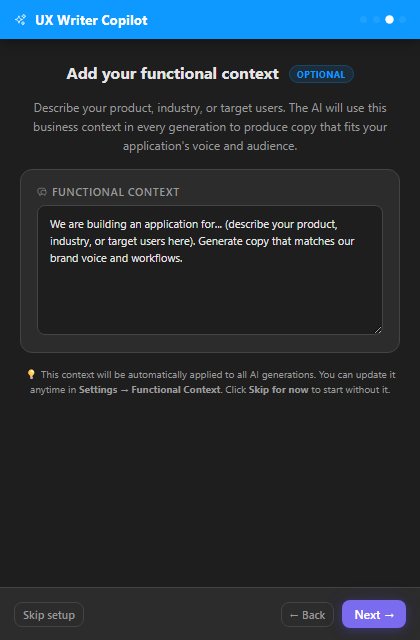
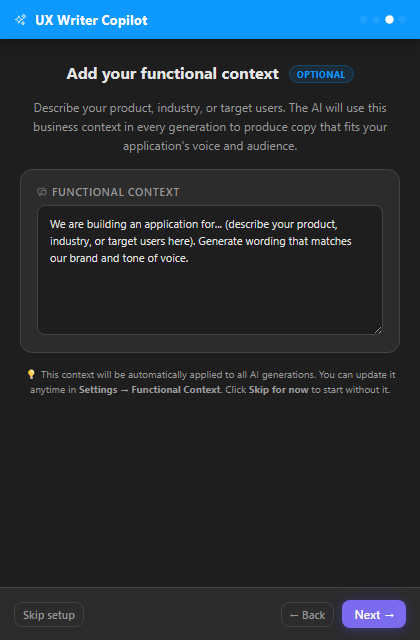
Add Mistral provider (Ministral 8B, Small 4, Large 3); rewrite onboarding copy
- Add MistralProvider (OpenAI-compatible, api.mistral.ai) with 3 models
- Add 'mistral' to LLMProvider union, MistralModel type, AIModel union, ModelConfig
- Register MistralProvider in ai-service.ts; fix switch default to mistral
- Add Mistral to PROVIDER_MODELS, PROVIDER_KEY_INFO, validateApiKey, getModelConfig,
  collectPersistedSettings, applyPersistedSettings, setupOnboarding VALID_PROVIDERS
- Add Mistral option to both provider dropdowns in ui.html (settings + onboarding)
- Fix legacy 'GH Token' label / 'ghp_...' placeholder in onboarding step 2
- Onboarding step 1: update feature bullet to include Mistral
- Onboarding step 3: align textarea default text with OB_AGENT_DEFAULT_PROMPT
- Onboarding step 4: replace outdated Context-button tip with Auto-selection +
  New conversation tips
- Add api.mistral.ai to manifest.json networkAccess.allowedDomains
- Update gen-screenshots.py to match all copy changes; regenerate 7x420x640 screenshots

Changed region(s): [[0.1238, 0.375, 0.4333, 0.4062], [0.5881, 0.375, 0.8357, 0.4062]]

diff --git a/src/ui.ts b/src/ui.ts
@@ -643,6 +643,11 @@ const PROVIDER_MODELS: Record<LLMProvider, Array<{ value: string; label: string 
     { value: "claude-sonnet-4-6", label: "Claude Sonnet 4.6" },
     { value: "claude-opus-4-6", label: "Claude Opus 4.6" },
   ],
+  mistral: [
+    { value: "ministral-8b-2512",  label: "Ministral 8B" },
+    { value: "mistral-small-2603", label: "Mistral Small 4" },
+    { value: "mistral-large-2512", label: "Mistral Large 3" },
+  ],
 };
 
 /** Key labels and placeholders per provider for the API key input field. */
@@ -670,6 +675,14 @@ const PROVIDER_KEY_INFO: Record<LLMProvider, { label: string; placeholder: strin
     hint: "Get your API key at console.anthropic.com → API Keys.",
     icon: '<svg class="icon icon--fill" aria-hidden="true"><use href="#icon-anthropic"/></svg>',
     instructionsHtml: `<div class="ob-inst-header"><svg class="icon icon--fill" aria-hidden="true"><use href="#icon-anthropic"/></svg> Anthropic — How to get your API key</div><ol><li>Go to <a href="https://console.anthropic.com/settings/keys" target="_blank" rel="noopener noreferrer">console.anthropic.com → API Keys</a>.</li><li>Click <strong>Create key</strong>.</li><li>Copy the key (<code>sk-ant-…</code>) and paste it in the field above.</li></ol><p class="ob-inst-note">Errors 401/429 are surfaced in the chat with a descriptive message.</p>`,
+  },
+  mistral: {
+    label: "API Key",
+    placeholder: "… (Mistral API key)",
+    storageKey: "copilot_mistral_key",
+    hint: "Get your API key at console.mistral.ai.",
+    icon: '<svg class="icon icon-sm" aria-hidden="true"><use href="#icon-chip"/></svg>',
+    instructionsHtml: `<div class="ob-inst-header">Mistral — How to get your API key</div><ol><li>Go to <a href="https://console.mistral.ai/api-keys" target="_blank" rel="noopener noreferrer">console.mistral.ai → API Keys</a>.</li><li>Click <strong>Create new key</strong>.</li><li>Copy the key and paste it in the field above.</li></ol><p class="ob-inst-note">Errors 401/429 are surfaced in the chat with a descriptive message.</p>`,
   },
 };
 
@@ -717,12 +730,14 @@ function collectPersistedSettings(): PersistedSettings {
     gemini: (safeStorage.getItem("copilot_model_gemini") as ModelConfig["model"] | null) ?? undefined,
     openai: (safeStorage.getItem("copilot_model_openai") as ModelConfig["model"] | null) ?? undefined,
     anthropic: (safeStorage.getItem("copilot_model_anthropic") as ModelConfig["model"] | null) ?? undefined,
+    mistral: (safeStorage.getItem("copilot_model_mistral") as ModelConfig["model"] | null) ?? undefined,
   };
 
   const apiKeyByProvider: Partial<Record<LLMProvider, string>> = {
     gemini: safeStorage.getItem(PROVIDER_KEY_INFO.gemini.storageKey) ?? undefined,
     openai: safeStorage.getItem(PROVIDER_KEY_INFO.openai.storageKey) ?? undefined,
     anthropic: safeStorage.getItem(PROVIDER_KEY_INFO.anthropic.storageKey) ?? undefined,
+    mistral: safeStorage.getItem(PROVIDER_KEY_INFO.mistral.storageKey) ?? undefined,
   };
 
   return {
@@ -751,7 +766,7 @@ function persistSettingsToPlugin(): void {
 function applyPersistedSettings(settings: PersistedSettings): void {
   safeStorage.setItem("copilot_provider", settings.provider);
 
-  for (const provider of ["gemini", "openai", "anthropic"] as const) {
+  for (const provider of ["gemini", "openai", "anthropic", "mistral"] as const) {
     const model = settings.modelByProvider[provider];
     if (model) safeStorage.setItem(`copilot_model_${provider}`, model);
 
@@ -808,6 +823,8 @@ function getModelConfig(): ModelConfig {
     config.openaiKey = keyValue || undefined;
   } else if (provider === "anthropic") {
     config.anthropicKey = keyValue || undefined;
+  } else if (provider === "mistral") {
+    config.mistralKey = keyValue || undefined;
   }
 
   return config;
@@ -824,10 +841,14 @@ function validateApiKey(config: ModelConfig): string | null {
         ? null
         : "Please enter your OpenAI API key (sk-…) in the settings.";
     case "anthropic":
-    default:
       return config.anthropicKey
         ? null
         : "Please enter your Anthropic API key (sk-ant-…) in the settings.";
+    case "mistral":
+    default:
+      return config.mistralKey
+        ? null
+        : "Please enter your Mistral API key in the settings.";
   }
 }
 
@@ -1279,7 +1300,7 @@ const OB_AGENT_DEFAULT_PROMPT =
 let onboardingStep = 0;
 
 function setupOnboarding(): void {
-  const VALID_PROVIDERS: LLMProvider[] = ["gemini", "openai", "anthropic"];
+  const VALID_PROVIDERS: LLMProvider[] = ["gemini", "openai", "anthropic", "mistral"];
   const rawProvider = safeStorage.getItem("copilot_provider");
   const savedProvider: LLMProvider =
     rawProvider !== null && (VALID_PROVIDERS as string[]).includes(rawProvider)

diff --git a/ui.html b/ui.html
@@ -1682,6 +1682,7 @@
             <option value="gemini">Gemini (Google)</option>
             <option value="openai">OpenAI</option>
             <option value="anthropic">Anthropic</option>
+            <option value="mistral">Mistral</option>
           </select>
         </div>
 
@@ -1868,7 +1869,7 @@
           <li>💬 Ask UX writing questions in <strong>Ask mode</strong> — no edits needed</li>
           <li>🎯 Context-aware: AI reads your Figma layout for better copy</li>
           <li>🔁 Generate multiple alternatives at once and apply with one click</li>
-          <li>🤖 Supports Gemini, OpenAI, and Anthropic</li>
+          <li>🤖 Supports Gemini, OpenAI, Anthropic, and Mistral</li>
         </ul>
       </div>
 
@@ -1891,6 +1892,7 @@
                 <option value="gemini">Gemini (Google)</option>
                 <option value="openai">OpenAI</option>
                 <option value="anthropic">Anthropic</option>
+                <option value="mistral">Mistral</option>
               </select>
             </div>
           </div>
@@ -1906,11 +1908,11 @@
           <div class="settings__row">
             <span class="settings__label" id="ob-api-key-label">
               <svg class="icon icon-sm" aria-hidden="true"><use href="#icon-key"/></svg>
-              GH Token
+              API Key
             </span>
             <div class="api-key-row">
               <input type="password" id="ob-api-key-input"
-                     placeholder="ghp_… (copilot scope)"
+                     placeholder="Enter your API key"
                      autocomplete="off" aria-label="API Key"/>
               <button class="btn btn--icon" id="ob-api-key-toggle" type="button"
                       title="Show/hide key" aria-label="Toggle key visibility">
@@ -1947,7 +1949,7 @@
             </label>
             <textarea id="ob-agent-prompt" class="onboarding-textarea"
                       aria-label="Functional context"
-                      spellcheck="false">We are building an application for... (describe your product, industry, or target users here). Generate copy that matches our brand voice and workflows.</textarea>
+                      spellcheck="false">We are building an application for... (describe your product, industry, or target users here). Generate wording that matches our brand and tone of voice.</textarea>
           </div>
         </div>
         <p class="onboarding-hint">
@@ -1970,6 +1972,8 @@
           <li>💬 <strong>Ask mode</strong> — Ask UX writing questions and get AI advice without modifying anything</li>
           <li>🔢 <strong>Alternatives</strong> — Set a number to generate multiple copy options at once</li>
           <li>✅ <strong>Apply</strong> — Click "Apply" on any alternative to write it directly into the selected text node</li>
+          <li>🎯 <strong>Auto-selection</strong> — Select any text node in Figma and the plugin detects it automatically</li>
+          <li>🔁 <strong>New conversation</strong> — Use the refresh icon in the chat header to start fresh</li>
           <li>⚙ <strong>Settings</strong> — Change provider, model, or functional context</li>
         </ul>
       </div>

diff --git a/src/providers/mistral-provider.ts b/src/providers/mistral-provider.ts
@@ -1,0 +1,64 @@
+import type { ChatMessage } from "../types/ui-types";
+import type { LLMProvider } from "./llm-provider";
+
+const MISTRAL_API_URL = "https://api.mistral.ai/v1/chat/completions";
+
+/**
+ * LLM provider that calls the Mistral AI Chat Completions API directly (BYOK).
+ * The Mistral API is OpenAI-compatible — same request/response shape, different base URL and key.
+ *
+ * Supported models: ministral-8b-2512, mistral-small-2603, mistral-large-2512.
+ * Requires a Mistral API key from console.mistral.ai.
+ */
+export class MistralProvider implements LLMProvider {
+  private readonly apiKey: string;
+
+  constructor(apiKey: string) {
+    if (!apiKey) {
+      throw new Error(
+        "A Mistral API key is required. " +
+        "Create one at console.mistral.ai and paste it in the API Key field."
+      );
+    }
+    this.apiKey = apiKey;
+  }
+
+  async chat(messages: ChatMessage[], modelId: string): Promise<string> {
+    const response = await fetch(MISTRAL_API_URL, {
+      method: "POST",
+      headers: {
+        "Content-Type": "application/json",
+        Authorization: `Bearer ${this.apiKey}`,
+      },
+      body: JSON.stringify({
+        model: modelId,
+        messages: messages.map((m) => ({ role: m.role, content: m.content })),
+        temperature: 0.7,
+        max_tokens: 4096,
+      }),
+    });
+
+    if (!response.ok) {
+      const errorText = await response.text();
+      if (response.status === 401) {
+        throw new Error(
+          "Mistral API key is invalid or expired (401). " +
+          "Please check your key at console.mistral.ai."
+        );
+      }
+      if (response.status === 429) {
+        throw new Error(
+          "Mistral rate limit or quota exceeded (429). " +
+          "Please wait a moment or check your plan at console.mistral.ai."
+        );
+      }
+      throw new Error(`Mistral API error ${response.status}: ${errorText}`);
+    }
+
+    const data = (await response.json()) as {
+      choices: Array<{ message: { content: string } }>;
+    };
+
+    return data.choices[0]?.message?.content ?? "";
+  }
+}

diff --git a/src/types/ui-types.ts b/src/types/ui-types.ts
@@ -28,8 +28,9 @@ export interface ChatMessage {
  * - `gemini`: Direct Google Gemini API (BYOK) — default provider.
  * - `openai`: Direct OpenAI Chat Completions API (BYOK).
  * - `anthropic`: Direct Anthropic Messages API (BYOK).
+ * - `mistral`: Direct Mistral AI Chat Completions API (BYOK).
  */
-export type LLMProvider = "gemini" | "openai" | "anthropic";
+export type LLMProvider = "gemini" | "openai" | "anthropic" | "mistral";
 
 // ─── Models ──────────────────────────────────────────────────────────────────
 
@@ -52,8 +53,14 @@ export type AnthropicModel =
   | "claude-sonnet-4-6"
   | "claude-opus-4-6";
 
+/** Models available directly on the Mistral AI API. */
+export type MistralModel =
+  | "ministral-8b-2512"
+  | "mistral-small-2603"
+  | "mistral-large-2512";
+
 /** Union of all model IDs supported across providers. */
-export type AIModel = GeminiModel | OpenAIModel | AnthropicModel;
+export type AIModel = GeminiModel | OpenAIModel | AnthropicModel | MistralModel;
 
 export interface ModelConfig {
   /** The LLM provider to use. Defaults to `"gemini"`. */
@@ -66,6 +73,8 @@ export interface ModelConfig {
   openaiKey?: string;
   /** Anthropic API key (Anthropic provider, BYOK). */
   anthropicKey?: string;
+  /** Mistral AI API key (Mistral provider, BYOK). */
+  mistralKey?: string;
   /** When true, log prompts, context, and AI responses to the browser console. */
   debug?: boolean;
 }

diff --git a/src/services/ai-service.ts b/src/services/ai-service.ts
@@ -10,6 +10,7 @@ import type { LLMProvider } from "../providers/llm-provider";
 import { GeminiProvider } from "../providers/gemini-provider";
 import { OpenAIProvider } from "../providers/openai-provider";
 import { AnthropicProvider } from "../providers/anthropic-provider";
+import { MistralProvider } from "../providers/mistral-provider";
 
 // ─── Text context formatter ───────────────────────────────────────────────────
 
@@ -125,8 +126,11 @@ export function createProvider(config: ModelConfig): LLMProvider {
       return new OpenAIProvider(config.openaiKey ?? "");
 
     case "anthropic":
-    default:
       return new AnthropicProvider(config.anthropicKey ?? "");
+
+    case "mistral":
+    default:
+      return new MistralProvider(config.mistralKey ?? "");
   }
 }
 

diff --git a/scripts/gen-screenshots.py b/scripts/gen-screenshots.py
@@ -212,7 +212,7 @@ html = make_html("""
         <li>💬 Ask UX writing questions in <strong>Ask mode</strong> — no edits needed</li>
         <li>🎯 Context-aware: AI reads your Figma layout for better copy</li>
         <li>🔁 Generate multiple alternatives at once and apply with one click</li>
-        <li>🤖 Supports Gemini, OpenAI, and Anthropic</li>
+        <li>🤖 Supports Gemini, OpenAI, Anthropic, and Mistral</li>
       </ul>
     </div>
   </div>
@@ -261,6 +261,7 @@ html = make_html("""
               <option selected>Gemini (Google)</option>
               <option>OpenAI</option>
               <option>Anthropic</option>
+              <option>Mistral</option>
             </select>
           </div>
         </div>
@@ -348,7 +349,7 @@ html = make_html("""
             <svg class="icon icon-sm" aria-hidden="true"><use href="#icon-chat"/></svg>
             Functional context
           </label>
-          <textarea id="ob-ctx" class="onboarding-textarea" spellcheck="false">We are building an application for... (describe your product, industry, or target users here). Generate copy that matches our brand voice and workflows.</textarea>
+          <textarea id="ob-ctx" class="onboarding-textarea" spellcheck="false">We are building an application for... (describe your product, industry, or target users here). Generate wording that matches our brand and tone of voice.</textarea>
         </div>
       </div>
       <p class="onboarding-hint">
@@ -396,30 +397,34 @@ html = make_html("""
         Here are some tips to get the most out of the plugin.
       </p>
       <ul class="onboarding-tips">
-        <li>
-          <i class="fa-solid fa-pen-nib" style="width:14px;color:var(--action)"></i>
-          <strong>Generate mode</strong> — Select a text node, describe the wording you want, and get alternatives
-        </li>
-        <li>
-          <i class="fa-solid fa-comments" style="width:14px;color:var(--primary)"></i>
-          <strong>Ask mode</strong> — Ask UX writing questions and get AI advice without modifying anything
-        </li>
-        <li>
-          <i class="fa-solid fa-list-ol" style="width:14px;color:var(--primary)"></i>
-          <strong>Alternatives</strong> — Set a number to generate multiple copy options at once
-        </li>
-        <li>
-          <i class="fa-solid fa-check" style="width:14px;color:var(--primary)"></i>
-          <strong>Apply</strong> — Click &ldquo;Apply&rdquo; on any alternative to write it directly into the text node
-        </li>
-        <li>
-          <i class="fa-solid fa-rotate" style="width:14px;color:var(--primary)"></i>
-          <strong>Context</strong> — Click &ldquo;Context&rdquo; so AI reads your Figma document for better suggestions
-        </li>
-        <li>
-          <i class="fa-solid fa-gear" style="width:14px;color:var(--primary)"></i>
-          <strong>Settings</strong> — Change provider, model, or functional context
-        </li>
+         <li>
+           <i class="fa-solid fa-pen-nib" style="width:14px;color:var(--action)"></i>
+           <strong>Generate mode</strong> — Select a text node, describe the wording you want, and get alternatives
+         </li>
+         <li>
+           <i class="fa-solid fa-comments" style="width:14px;color:var(--primary)"></i>
+           <strong>Ask mode</strong> — Ask UX writing questions and get AI advice without modifying anything
+         </li>
+         <li>
+           <i class="fa-solid fa-list-ol" style="width:14px;color:var(--primary)"></i>
+           <strong>Alternatives</strong> — Set a number to generate multiple copy options at once
+         </li>
+         <li>
+           <i class="fa-solid fa-check" style="width:14px;color:var(--primary)"></i>
+           <strong>Apply</strong> — Click &ldquo;Apply&rdquo; on any alternative to write it directly into the text node
+         </li>
+         <li>
+           <i class="fa-solid fa-bullseye" style="width:14px;color:var(--primary)"></i>
+           <strong>Auto-selection</strong> — Select any text node in Figma and the plugin detects it automatically
+         </li>
+         <li>
+           <i class="fa-solid fa-rotate" style="width:14px;color:var(--primary)"></i>
+           <strong>New conversation</strong> — Use the refresh icon in the chat header to start fresh
+         </li>
+         <li>
+           <i class="fa-solid fa-gear" style="width:14px;color:var(--primary)"></i>
+           <strong>Settings</strong> — Change provider, model, or functional context
+         </li>
       </ul>
     </div>
   </div>
@@ -576,6 +581,7 @@ html = make_html("""
           <option selected>Gemini (Google)</option>
           <option>OpenAI</option>
           <option>Anthropic</option>
+          <option>Mistral</option>
         </select>
       </div>
       <div class="settings__row">
